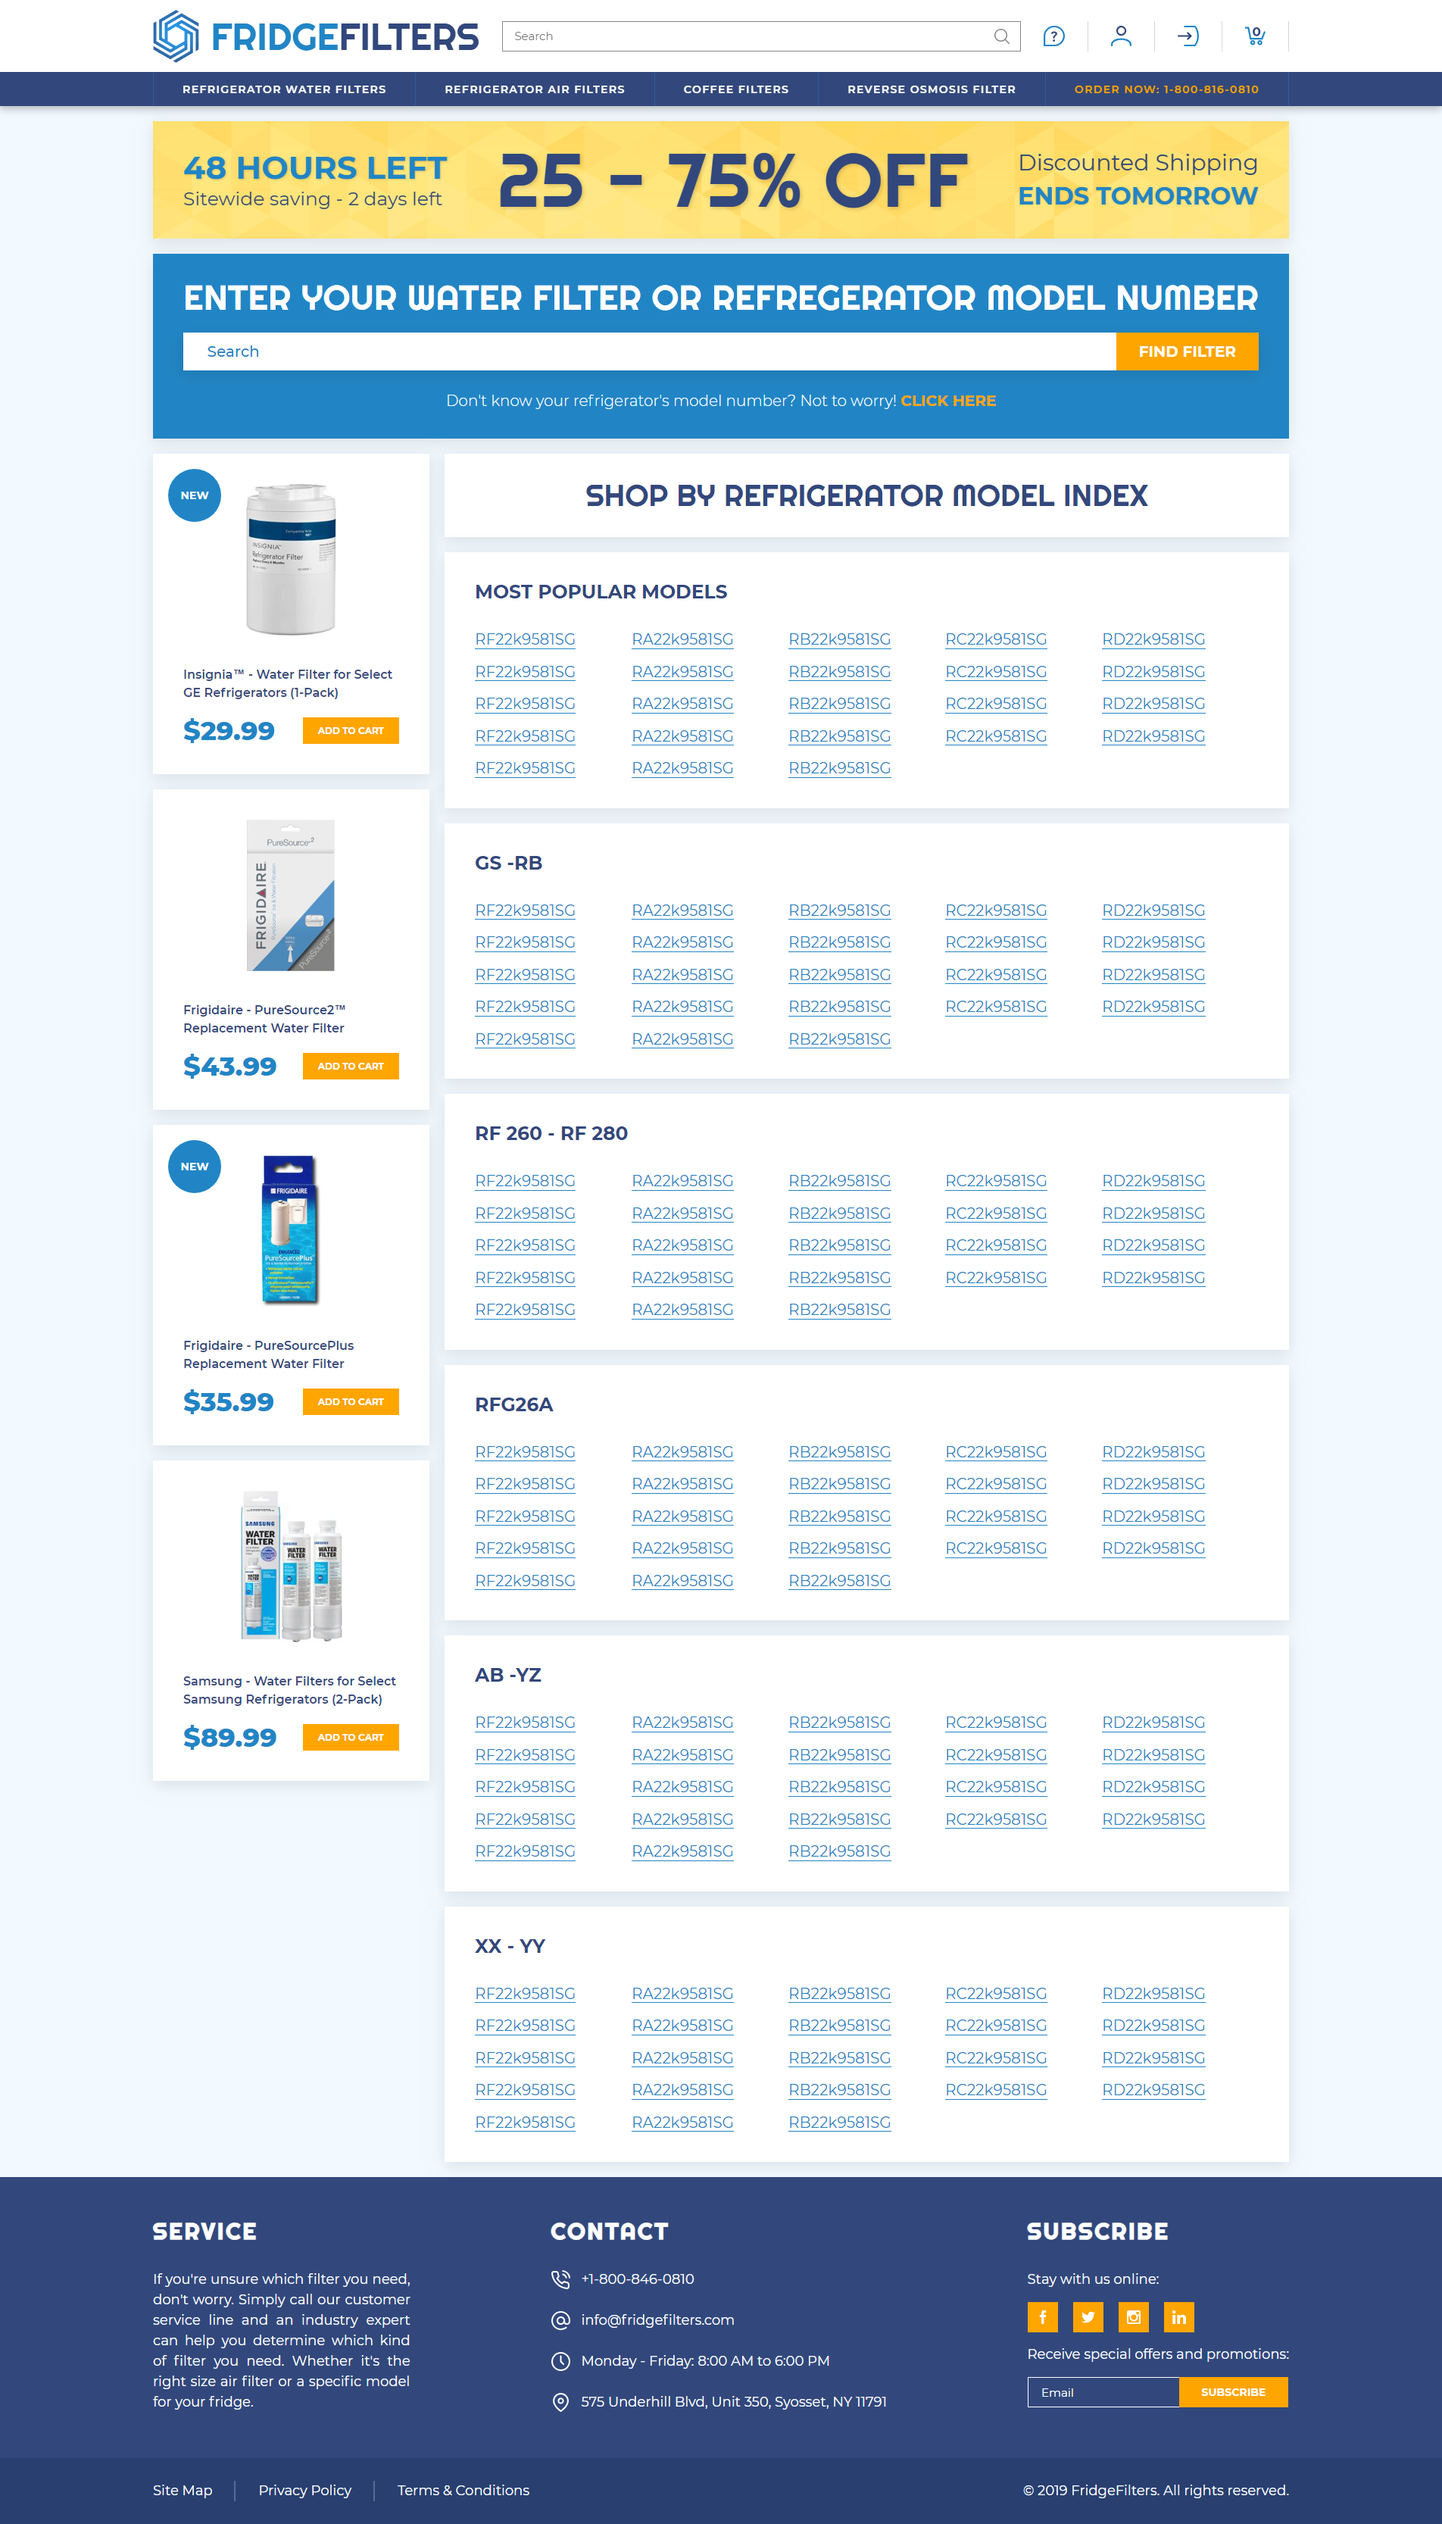
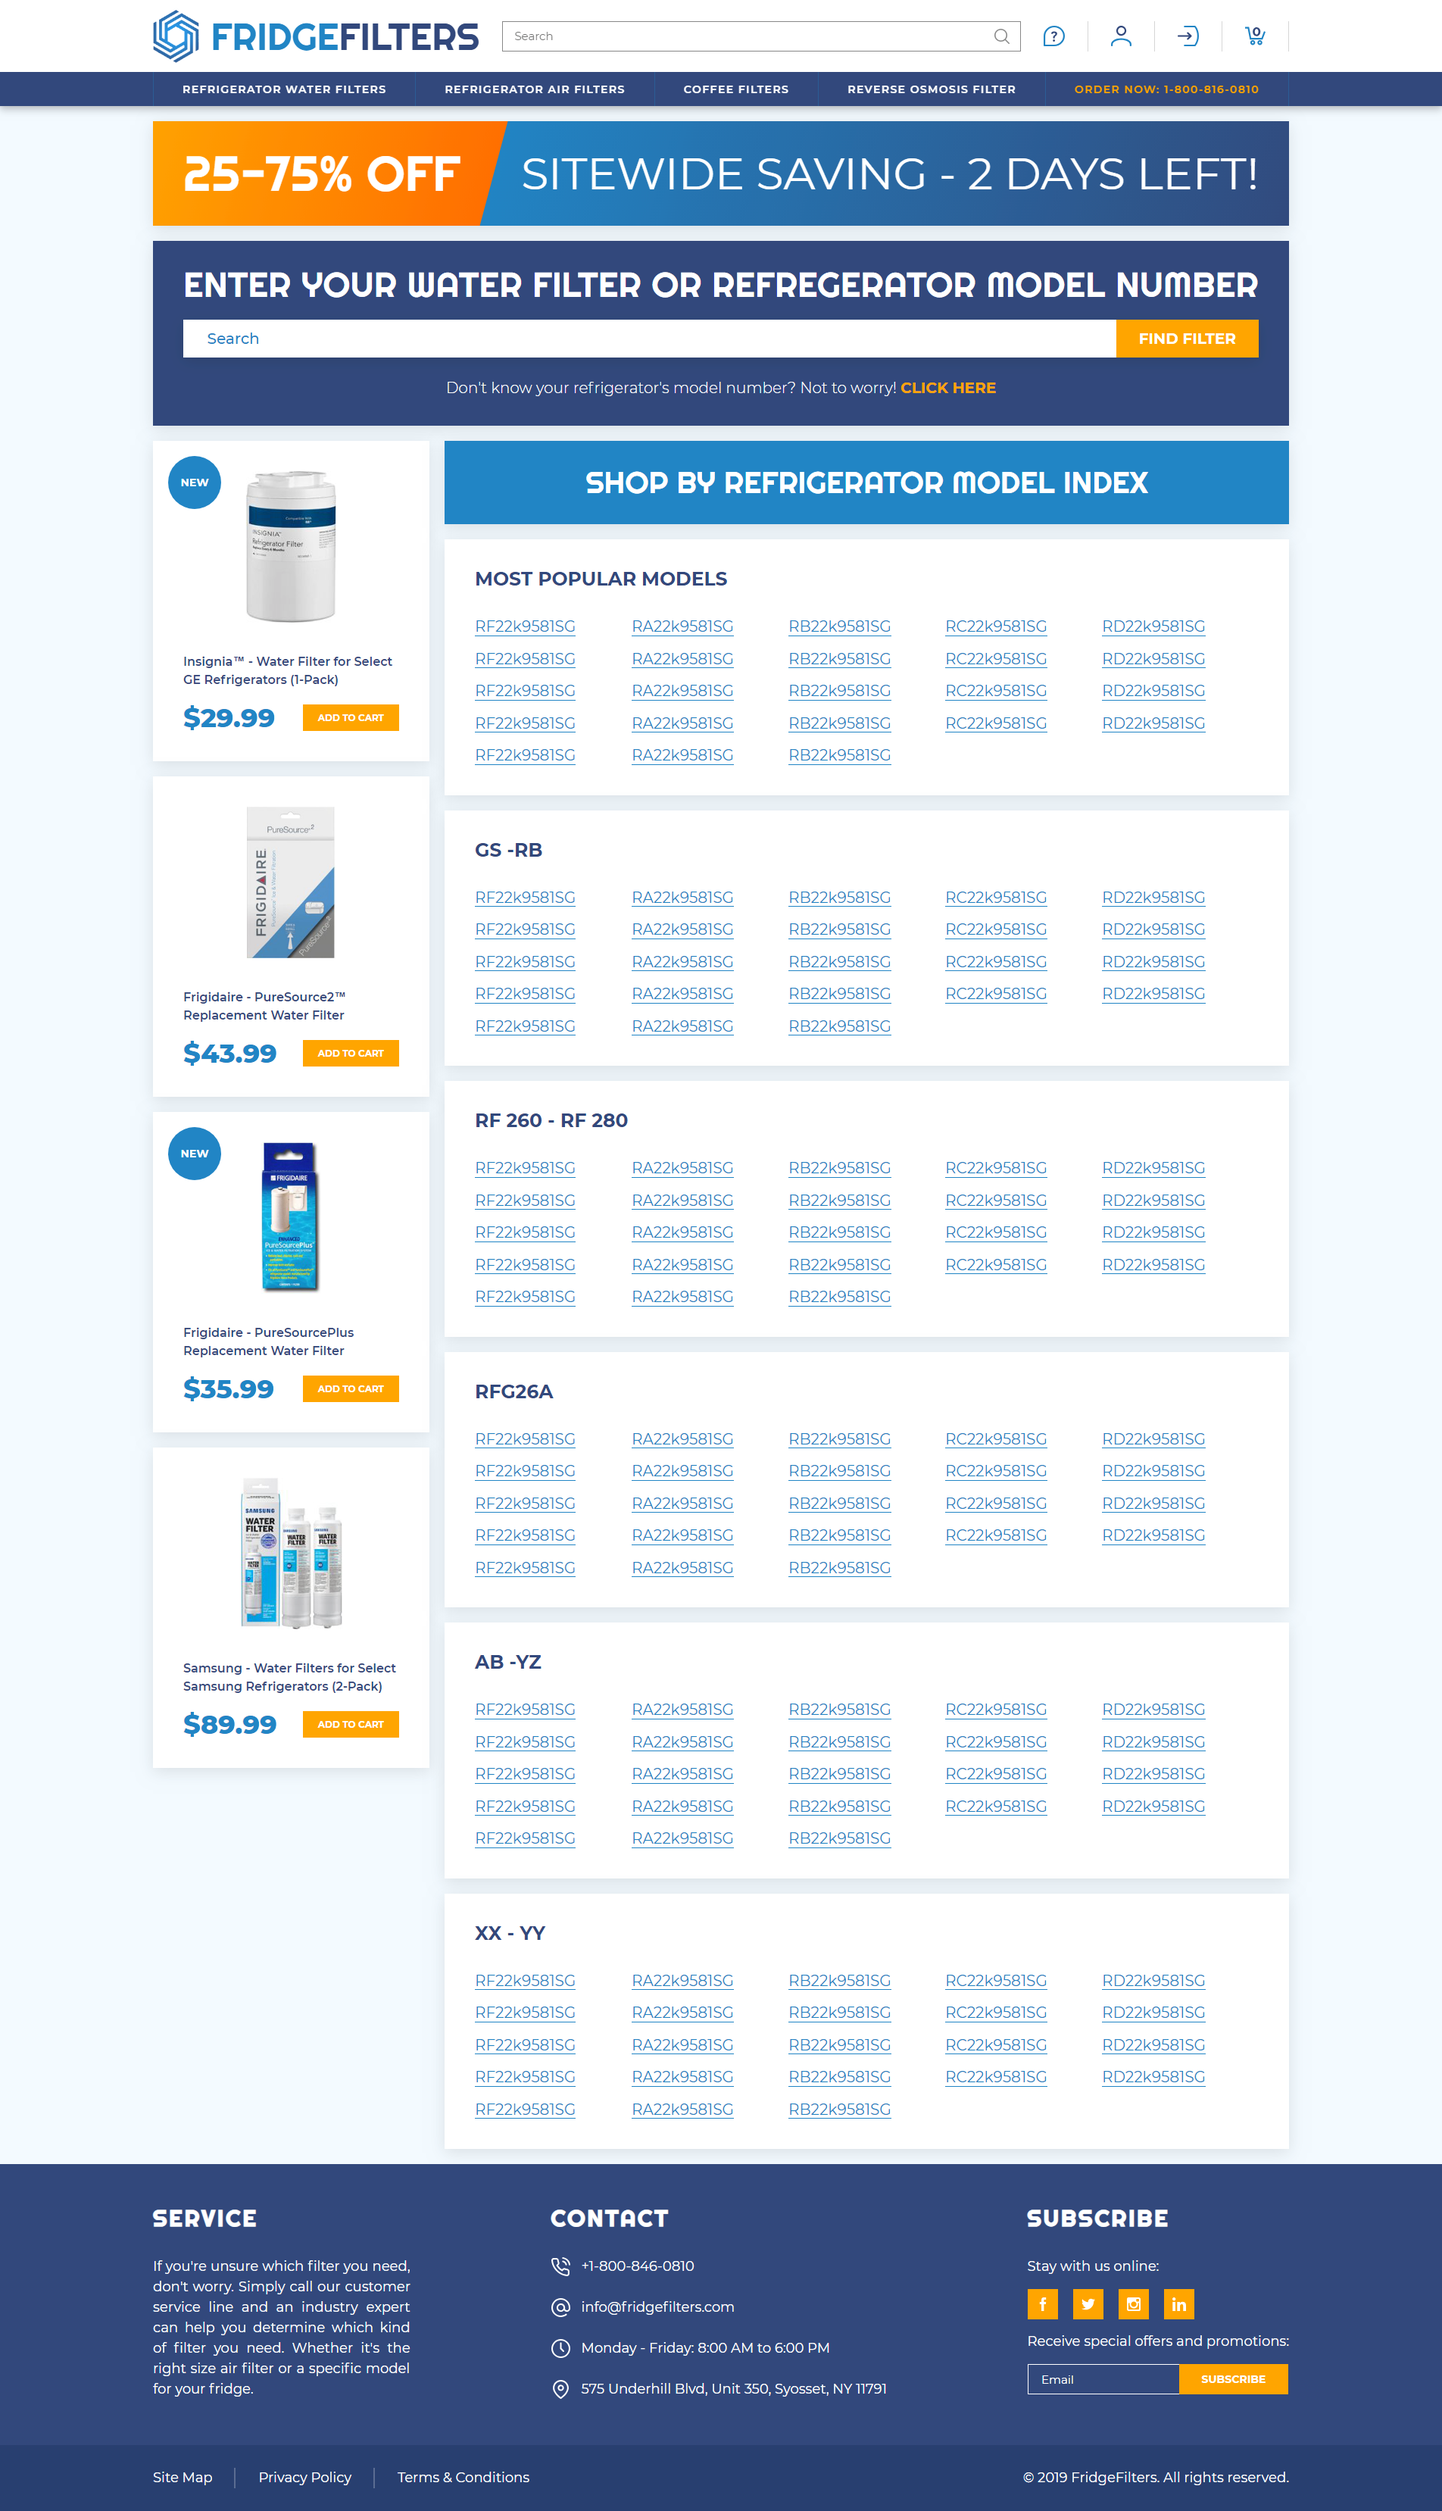
filter011

diff --git a/filter01/css/style.css b/filter01/css/style.css
@@ -447,64 +447,57 @@ section {
     padding: 4rem;
     display: flex;
     justify-content: space-between;
-    background: #d5fff5 url(../images/banner-bg16.png) 50% 50% / cover no-repeat;
-/*    align-items: center;*/
+    background: #fff;
+    overflow: hidden;
+    position: relative;
 }
 
 .banner__saving {
-    display: flex;
-    flex-direction: column;
-    justify-content: space-between;
-}
-
-.banner__saving_top {
-    font: 700 4.21rem / 1 'Montserrat', sans-serif;
+    font: 400 5.85rem / 1 'Montserrat', sans-serif;
     text-transform: uppercase;
-    color: #2185c5;
-    -webkit-filter: drop-shadow(.025em .025em .025em rgba(0, 0, 0, 0.15));
+    color: #32497c;
+    color: #fff;
+    z-index: 2;
+/*    -webkit-filter: drop-shadow(.025em .025em .025em rgba(0, 0, 0, 0.15));*/
 }
 
+.banner:before {
+    content: '';
+    position: absolute;
+    top: 0;
+    right: -5rem;
+    height: 100%;
+    width: 75%;
+    background: linear-gradient(to right, #2185c5, #32497c);
+    transform: skewX(-15deg)
+}
 
-.banner__saving_bottom {
-    font: 400 2.5rem / 1 'Montserrat', sans-serif;
-    color: #32497c;
-    -webkit-filter: drop-shadow(.025em .025em .025em rgba(0, 0, 0, 0.15));
+.banner:after {
+    content: '';
+    position: absolute;
+    top: 0;
+    left: -5rem;
+    height: 100%;
+    width: 50rem;
+    background: linear-gradient(to right, #FFA500, #FF6F00);
+    transform: skewX(-15deg)
 }
 
 .banner__discount {
-    font: 400 10rem / .75 'Righteous', cursive;
-    text-transform: uppercase;
-    color: #32497c;
-    -webkit-filter: drop-shadow(.025em .025em .025em rgba(0, 0, 0, 0.15));
-}
-
-.banner__ends {
+    z-index: 2;
     display: flex;
-    flex-direction: column;
-    justify-content: space-between;
-    -webkit-filter: drop-shadow(.025em .025em .025em rgba(0, 0, 0, 0.15));
-}
-
-.banner__ends_top {
-    font: 400 3rem / 1 'Montserrat', sans-serif;
-    color: #32497c;
-    -webkit-filter: drop-shadow(.025em .025em .025em rgba(0, 0, 0, 0.15));
-    
-}
-
-.banner__ends_bottom {
-    font: 700 3.2rem / 1 'Montserrat', sans-serif;
+    align-items: center;
+    font: 400 6.5rem / .75 'Righteous', cursive;
     text-transform: uppercase;
-    color: #2185c5;
-    -webkit-filter: drop-shadow(.025em .025em .025em rgba(0, 0, 0, 0.15));
-    
+    color: #fff;
 }
 
 .find-form {
     display: flex;
     flex-direction: column;
     padding: 4rem;
-    background: #2185c5;
+    
+    background: #32497c;
     box-shadow: 0 0.5rem 2rem 0 rgba(0,0,0,0.1);
     margin-top: 2rem;
 }
@@ -691,12 +684,16 @@ section {
     position: relative;
 }
 
+.main__list_item:first-of-type {
+    background: #2185c5;
+}
+
 .main__list_item:not(:first-of-type) {
     margin-top: 2rem;
 }
 
 .main__list_h2 {
-    color: #32497c;
+    color: #fff;
     font: 400 4rem / .75 'Righteous', cursive;
     text-transform: uppercase;
     text-align: center;

diff --git a/filter01/index.html b/filter01/index.html
@@ -88,15 +88,8 @@
     <div class="page-wrapper">
         <div class="page-wrapper__container container-column">
             <div class="banner">
-                <div class="banner__saving">
-                    <div class="banner__saving_top">48 hours left</div>
-                    <div class="banner__saving_bottom">Sitewide saving - 2 days left</div>
-                </div>
-                <div class="banner__discount">25 - 75% off</div>
-                <div class="banner__ends">
-                    <div class="banner__ends_top">Discounted Shipping</div>
-                    <div class="banner__ends_bottom">Ends tomorrow</div>
-                </div>
+                <div class="banner__discount">25-75% off</div>
+                <div class="banner__saving">Sitewide saving - 2 days left!</div>
             </div>
             <form action="" class="find-form">
                 <h2 class="find-form__h2">Enter your water filter or refregerator model number</h2>
@@ -605,7 +598,6 @@
                     </ul>
                 </main>
             </div>
-            
         </div>
     </div>
     <footer class="footer">
